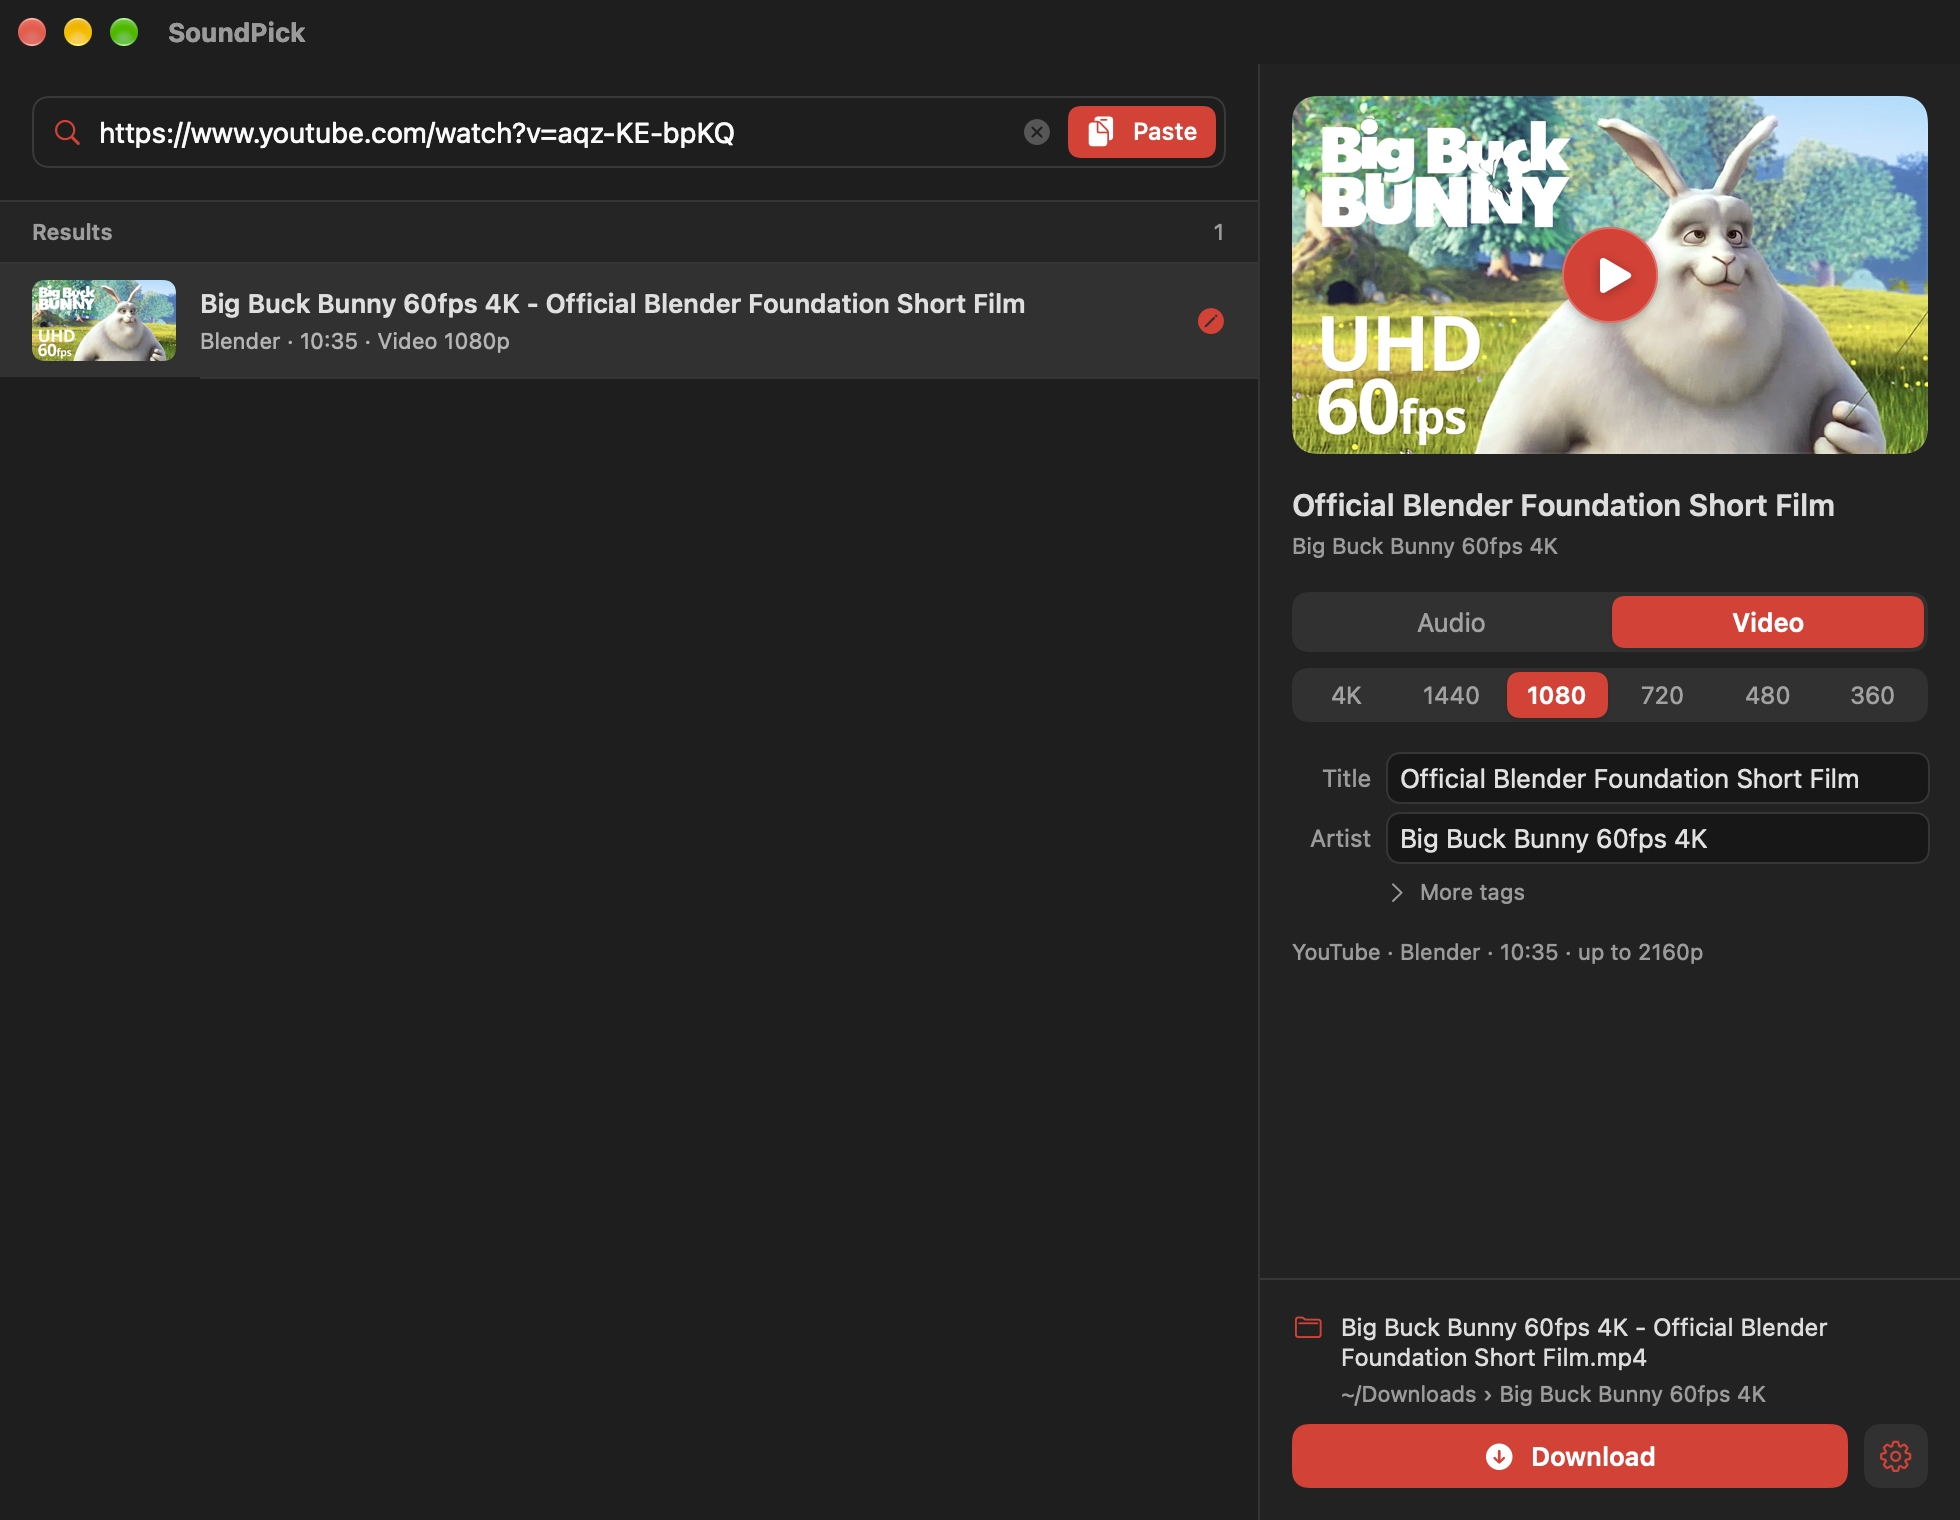
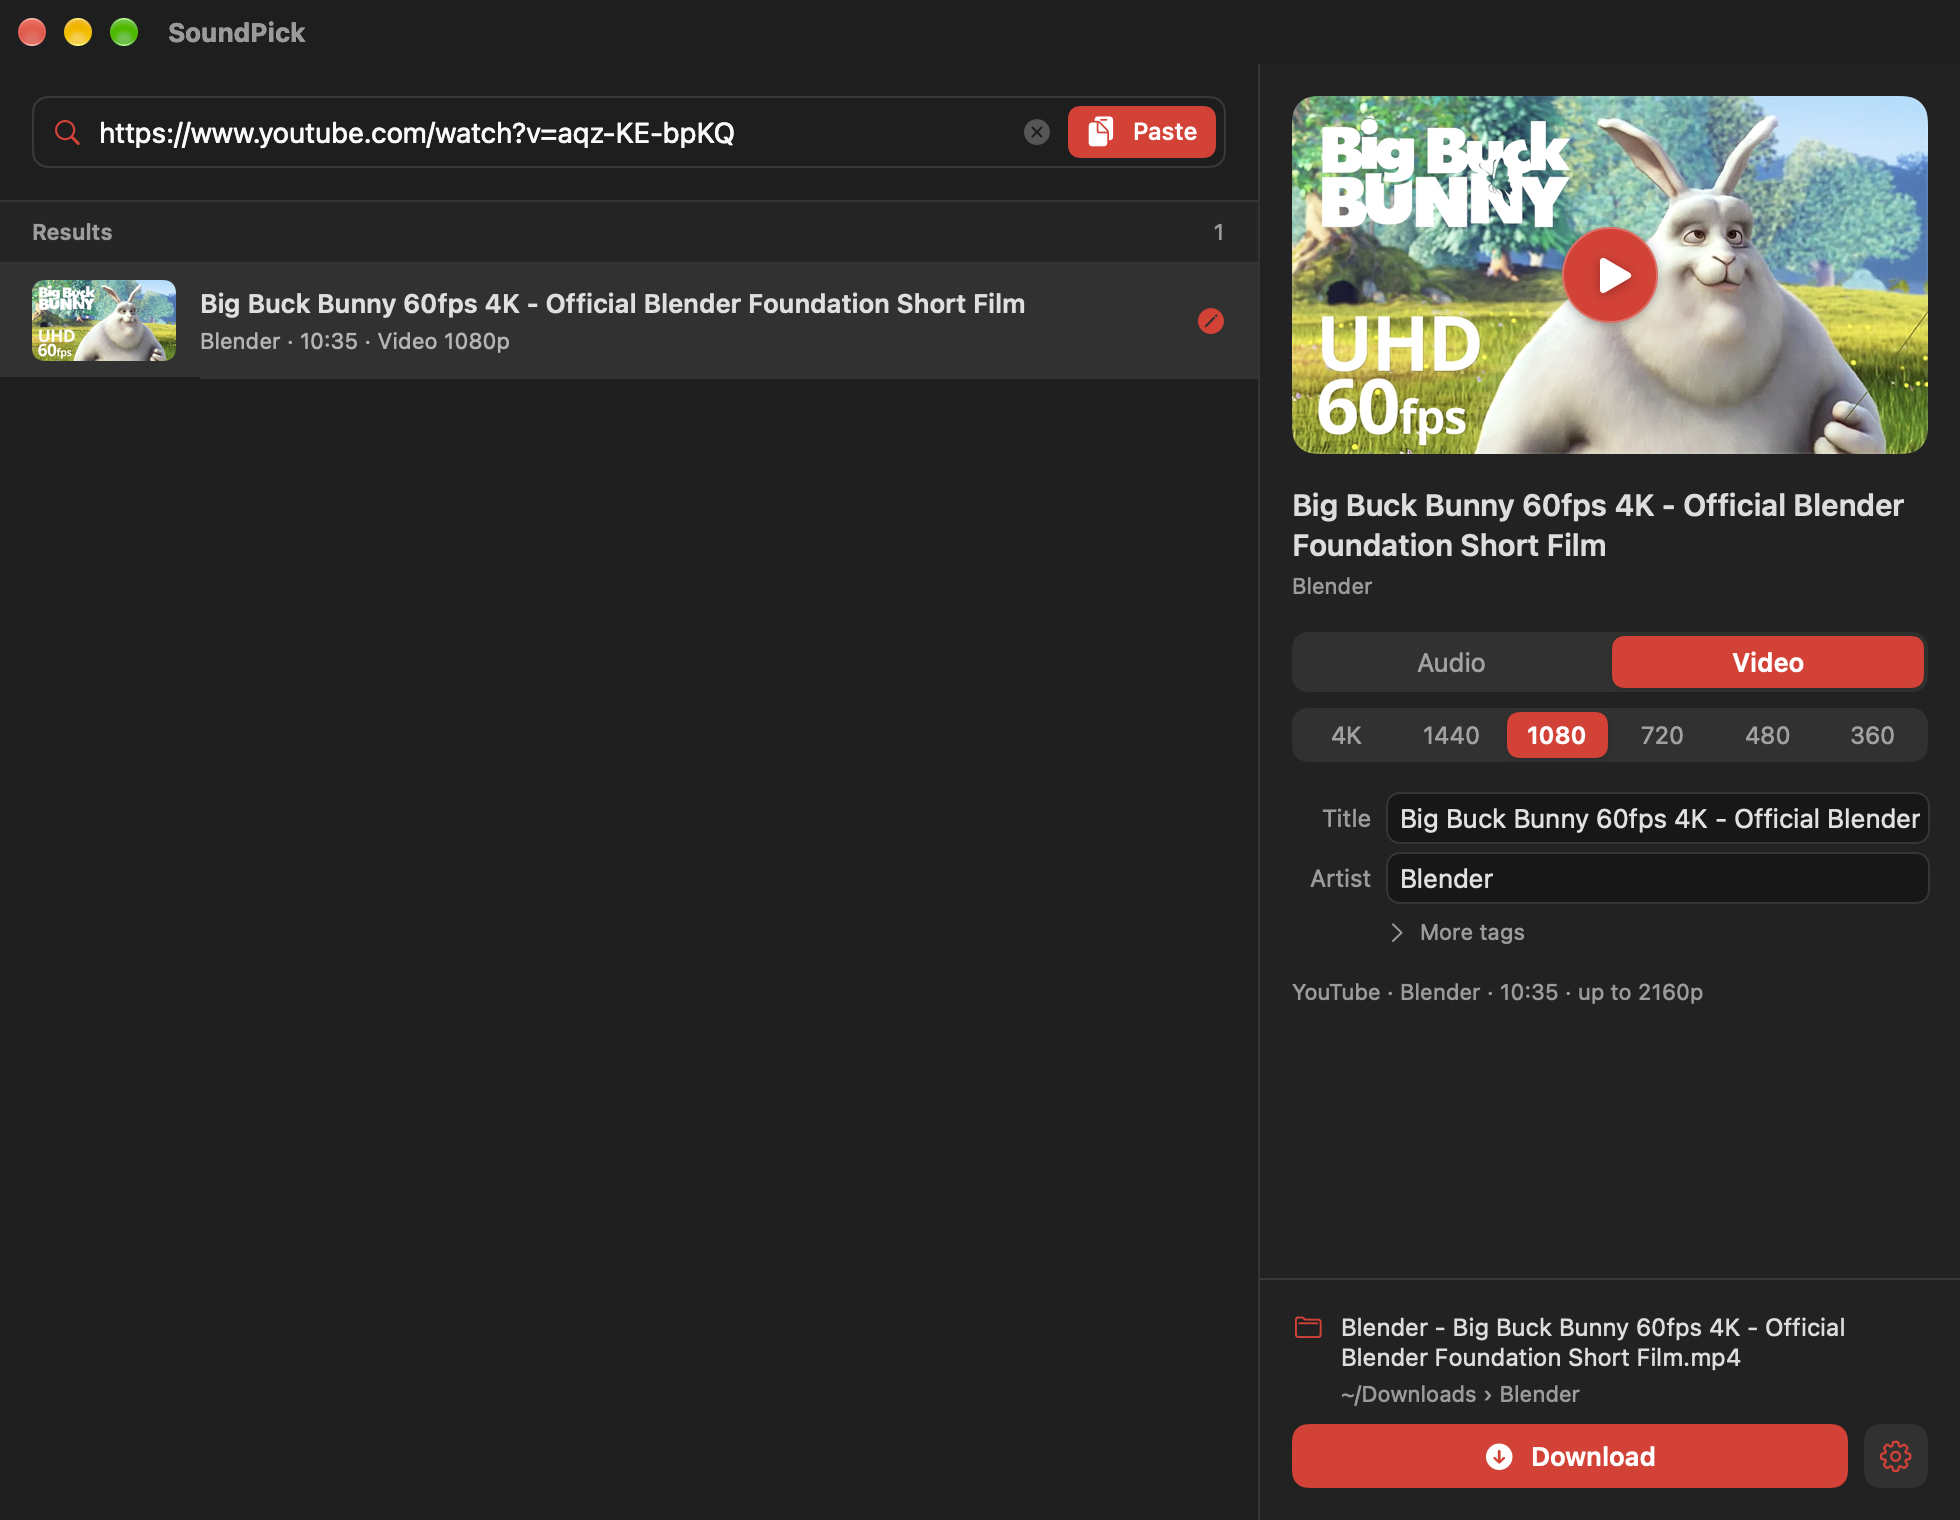
Don't split non-music titles into artist and title
A dash in a video title was always read as "Artist - Song", so
"Big Buck Bunny 60fps 4K - Official Blender Foundation Short Film"
got "Big Buck Bunny 60fps 4K" as its artist. The site's categories are
now read: when they say the video isn't music, the whole title is the
title and the channel is the artist, unless the part before the dash is
the channel's own name. Music, and videos with no category, are guessed
as before.

The two main-window screenshots are retaken with the new guess.

Changed region(s): [[0.6536, 0.3711, 0.9959, 0.6803], [0.6536, 0.3092, 0.9648, 0.402], [0.6847, 0.8658, 0.9337, 0.9276]]

diff --git a/Sources/PullTube/Models/MP3Tags.swift b/Sources/PullTube/Models/MP3Tags.swift
@@ -31,11 +31,25 @@ struct MP3Tags: Equatable {
         }
 
         let title = cleanTitle(info.title)
+        let channel = cleanChannel(info.uploader)
 
         // "Artist - Song"
         if let r = title.range(of: #"\s[-–—]\s"#, options: .regularExpression) {
-            tags.artist = String(title[..<r.lowerBound]).trimmingCharacters(in: .whitespaces)
-            tags.title = stripQuotes(String(title[r.upperBound...]))
+            let before = String(title[..<r.lowerBound]).trimmingCharacters(in: .whitespaces)
+            // A dash in the title of something that isn't music ("Big Buck
+            // Bunny 60fps 4K - Official Blender Foundation Short Film") is
+            // just punctuation, unless what comes before it is the channel.
+            if info.mayBeMusic || before.caseInsensitiveCompare(channel) == .orderedSame {
+                tags.artist = before
+                tags.title = stripQuotes(String(title[r.upperBound...]))
+                return tags
+            }
+        }
+
+        // Not music: the whole title is the title, the channel made it.
+        if !info.mayBeMusic {
+            tags.title = title
+            tags.artist = channel
             return tags
         }
 

diff --git a/Sources/PullTube/Models/VideoInfo.swift b/Sources/PullTube/Models/VideoInfo.swift
@@ -16,6 +16,13 @@ struct VideoInfo: Equatable {
     let artist: String?
     let album: String?
     let releaseYear: Int?
+    /// The site's categories ("Music", "Film & Animation", …). Empty when the
+    /// site gives none, or for a list-row stand-in.
+    let categories: [String]
+    /// False only when the site says what this is and it isn't music.
+    var mayBeMusic: Bool {
+        categories.isEmpty || categories.contains { $0.caseInsensitiveCompare("Music") == .orderedSame }
+    }
     /// Square album art, when the site provides it (YouTube Music tracks do),
     /// at 1200px where the image host allows resizing.
     let squareCover: URL?
@@ -41,6 +48,7 @@ struct VideoInfo: Equatable {
         artist = (json["artists"] as? [String])?.first ?? (json["artist"] as? String)
         album = json["album"] as? String
         releaseYear = (json["release_year"] as? NSNumber)?.intValue
+        categories = json["categories"] as? [String] ?? []
         squareCover = Self.squareCover(in: json["thumbnails"] as? [[String: Any]] ?? [])
         uploader = (json["uploader"] ?? json["channel"] ?? json["creator"]) as? String
         thumbnail = (json["thumbnail"] as? String).flatMap(URL.init(string:))
